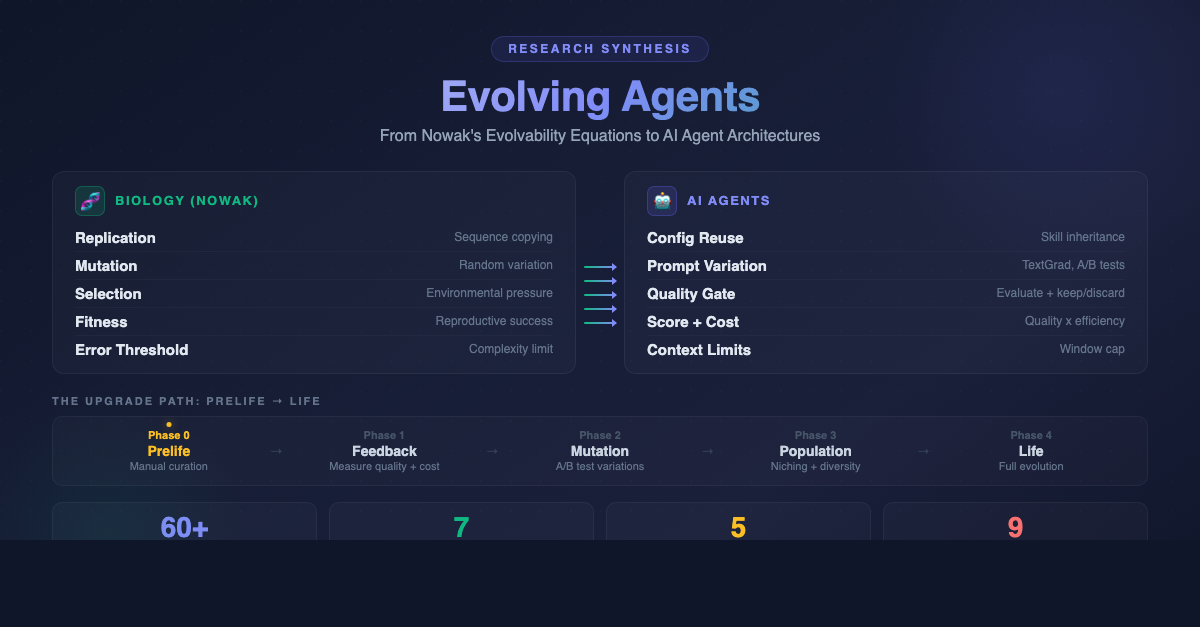
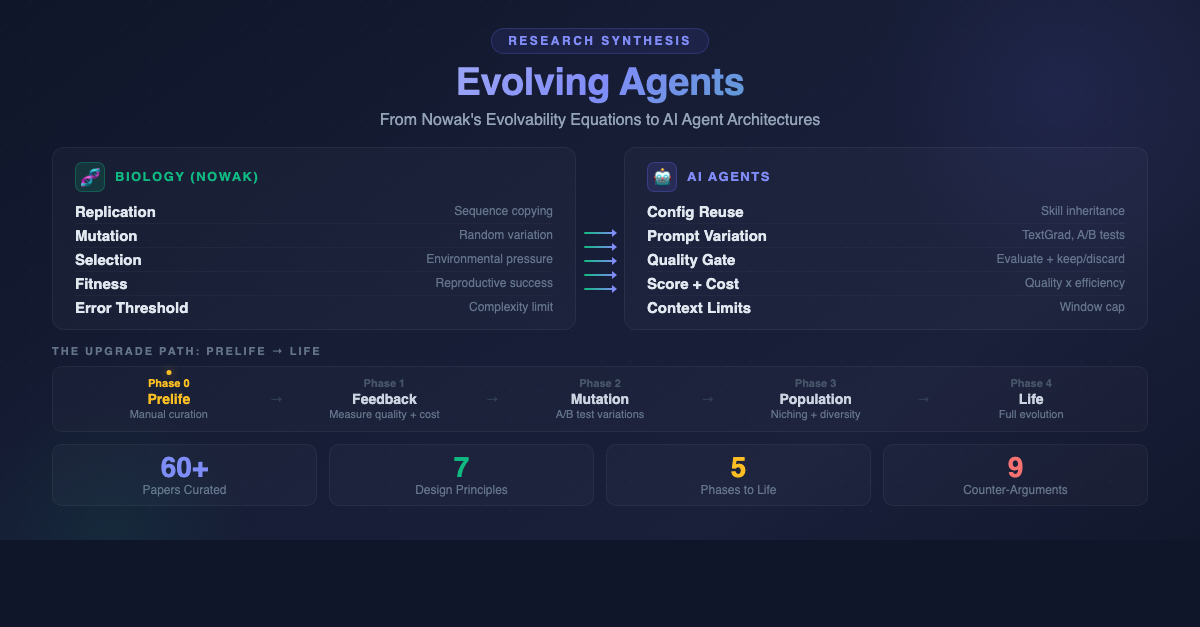
Fix big-picture layout to fit 1200x627 without clipping
Compact spacing throughout to ensure all content (header, bridge,
phase path, stats, footer) fits within LinkedIn's 1.91:1 ratio.

diff --git a/big-picture.html b/big-picture.html
@@ -23,7 +23,7 @@
     width: 1200px;
     height: 627px;
     background: linear-gradient(145deg, #0f1629 0%, #161d35 40%, #1a1f3a 70%, #0f1629 100%);
-    padding: 36px 52px 28px;
+    padding: 28px 52px 20px;
     position: relative;
     overflow: hidden;
     display: flex;
@@ -53,7 +53,7 @@
   /* Header */
   .header {
     text-align: center;
-    margin-bottom: 24px;
+    margin-bottom: 16px;
     position: relative;
     flex-shrink: 0;
   }
@@ -68,10 +68,10 @@
     border: 1px solid rgba(99,102,241,0.25);
     padding: 5px 16px;
     border-radius: 100px;
-    margin-bottom: 12px;
+    margin-bottom: 8px;
   }
   .header h1 {
-    font-size: 42px;
+    font-size: 38px;
     font-weight: 800;
     letter-spacing: -0.5px;
     background: linear-gradient(135deg, #e2e8f0 0%, #818cf8 50%, #10b981 100%);
@@ -91,7 +91,7 @@
   .bridge {
     display: grid;
     grid-template-columns: 1fr 48px 1fr;
-    margin-bottom: 20px;
+    margin-bottom: 14px;
     flex-shrink: 0;
   }
 
@@ -126,7 +126,7 @@
     display: flex;
     align-items: center;
     justify-content: space-between;
-    padding: 5px 0;
+    padding: 3px 0;
     border-bottom: 1px solid rgba(255,255,255,0.03);
   }
   .mapping-row:last-child { border-bottom: none; }
@@ -148,7 +148,7 @@
 
   /* Phase Path */
   .phase-section {
-    margin-bottom: 16px;
+    margin-bottom: 12px;
     flex-shrink: 0;
   }
   .section-label {
@@ -165,7 +165,7 @@
     background: rgba(255,255,255,0.02);
     border: 1px solid rgba(255,255,255,0.05);
     border-radius: 10px;
-    padding: 12px 18px;
+    padding: 10px 18px;
   }
   .phase { flex: 1; text-align: center; position: relative; }
   .phase-num { font-size: 11px; font-weight: 700; color: #475569; margin-bottom: 1px; }
@@ -189,7 +189,7 @@
   }
   .stat {
     text-align: center;
-    padding: 10px 8px;
+    padding: 8px 8px;
     background: rgba(255,255,255,0.025);
     border: 1px solid rgba(255,255,255,0.05);
     border-radius: 10px;
@@ -204,7 +204,7 @@
   /* Footer */
   .footer {
     margin-top: auto;
-    padding-top: 12px;
+    padding-top: 6px;
     display: flex;
     justify-content: space-between;
     align-items: center;
